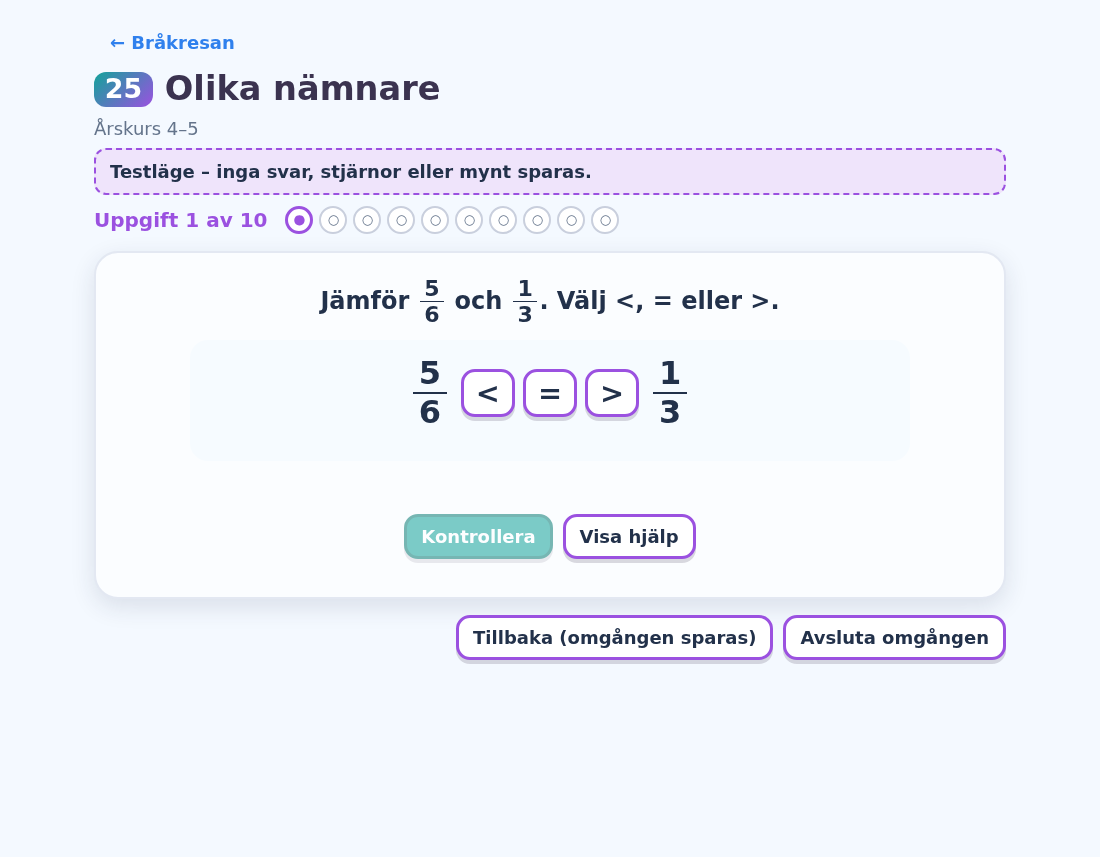
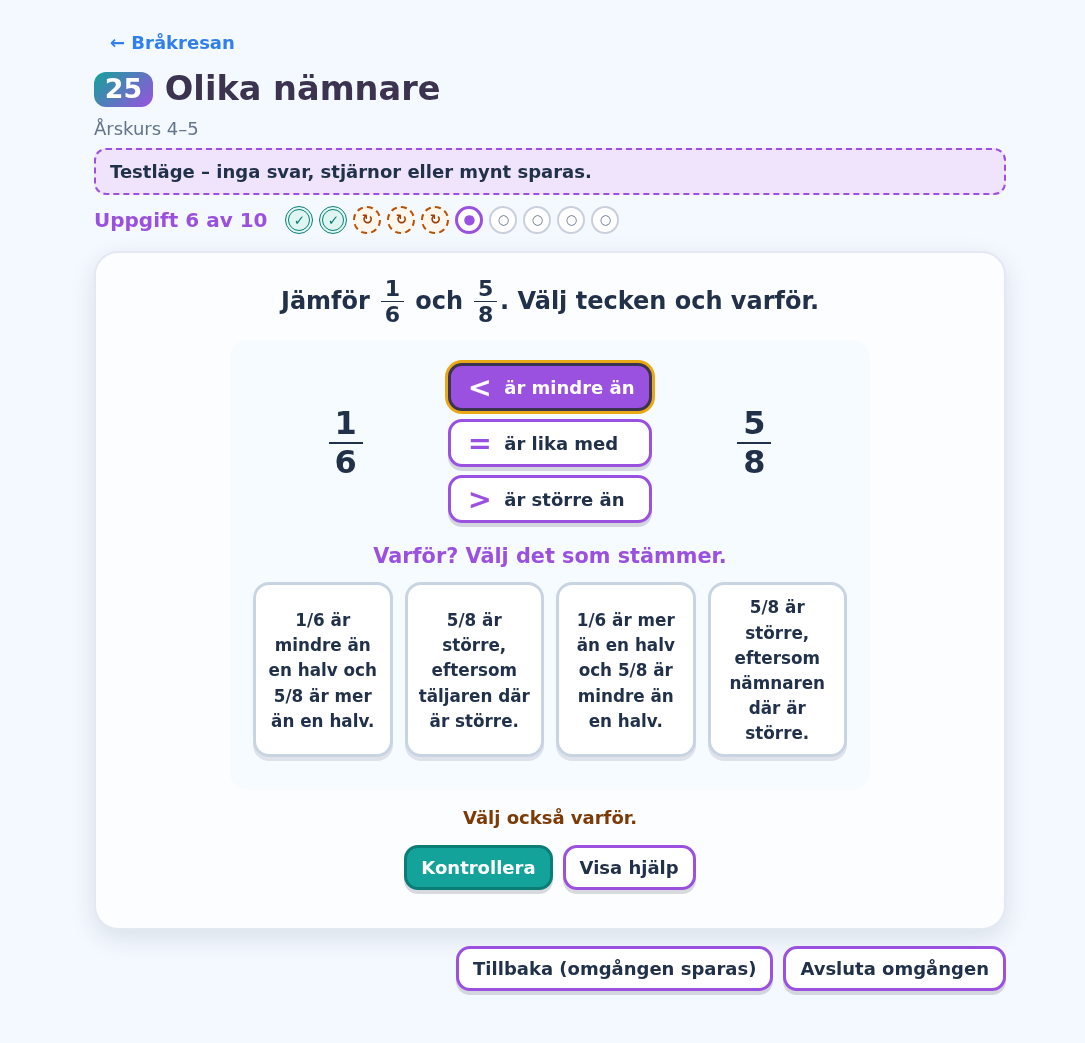
issue #711: 25 på E:s sammansatt (relationsval + förklaringskort), stavarna i hjälpen; ingen längdledtråd i 25/33 (granskas)

diff --git a/functions/brakresan/utmaningar/u25.js b/functions/brakresan/utmaningar/u25.js
@@ -9,9 +9,10 @@
 //     andra, allmän omdelning, likvärdiga (2/6 = 3/9 – lika med)
 //   • felresonemangen fångar "störst nämnare", "störst täljare", additiv
 //     omskrivning och "det går inte att jämföra olika stora delar"
-// Bilden (två lika långa stavar med verktyget "Dela varje bit i k") syns bara
-// medan hjälpen är öppen (view.stavar[].iHjalp): lika långa stavar avslöjar
-// annars svaret direkt (Elias, #709). Ingen korsmultiplikation som förklaring.
+// Vyn är E:s sammansatt (#710): relationsval (tecken + ord) och förklaringskort.
+// Bilden (två lika långa stavar) visas i hjälpen – lika långa stavar avslöjar
+// annars svaret direkt (Elias, #709) – och omdelningen visas där med andra tal.
+// Ingen korsmultiplikation som förklaring.
 // ============================================================================
 
 import { defineChallenge } from "../schema/kontrakt.js";
@@ -56,24 +57,24 @@ function resonemang({ a, n, b, m, sort }) {
   const x = (a * L) / n;
   const y = (b * L) / m;
   const rel = relation(q(a, n), q(b, m));
-  const ratt = sort === "halv"
-    ? `${a}/${n} är ${rel === "<" ? "mindre" : "mer"} än en halv och ${b}/${m} är ${rel === "<" ? "mer" : "mindre"} än en halv.`
-    : sort === "likvardig"
-      ? `Med lika stora bitar blir båda lika: ${a}/${n} = ${x}/${L} och ${b}/${m} = ${y}/${L}.`
-      : `Med lika stora bitar: ${a}/${n} = ${x}/${L} och ${b}/${m} = ${y}/${L}.`;
+  const halv = (r) => `${a}/${n} är ${r === "<" ? "mindre" : "mer"} än en halv och ${b}/${m} är ${r === "<" ? "mer" : "mindre"} än en halv.`;
+  const lika = (xx, yy) => `Med lika stora bitar: ${a}/${n} = ${xx}/${L} och ${b}/${m} = ${yy}/${L}.`;
+  const ratt = sort === "halv" ? halv(rel) : lika(x, y);
   const storstNamnare = n > m ? `${a}/${n}` : `${b}/${m}`;
   const storstTaljare = a > b ? `${a}/${n}` : `${b}/${m}`;
+  // Felresonemangen är byggda som det rätta (samma längd ungefär) – ingen längdledtråd (granskas i u25.mjs).
   const fel = [
-    { id: "namnare", text: `${storstNamnare} är störst, eftersom nämnaren är störst.`, tag: "storst-namnare" },
-    a !== b
-      ? { id: "taljare", text: `${storstTaljare} är störst, eftersom täljaren är störst.`, tag: "storst-taljare" }
-      : { id: "taljare", text: "De är lika stora, eftersom täljarna är lika.", tag: "storst-taljare" },
+    { id: "halvfel", text: halv(rel === "<" ? ">" : "<"), tag: "fel-mot-halv" },
     // Additiv omskrivning till samma nämnare: lägger till samma tal uppe och nere.
-    { id: "additiv", text: `Med samma nämnare: ${a}/${n} = ${a + L - n}/${L} och ${b}/${m} = ${b + L - m}/${L}.`, tag: "additiv-omskrivning" },
-    { id: "olika", text: "Det går inte att jämföra, eftersom bitarna är olika stora.", tag: "olika-helheter" },
+    { id: "additiv", text: lika(a + L - n, b + L - m), tag: "additiv-omskrivning" },
+    { id: "namnare", text: `${storstNamnare} är större, eftersom nämnaren där är större.`, tag: "storst-namnare" },
+    a !== b
+      ? { id: "taljare", text: `${storstTaljare} är större, eftersom täljaren där är större.`, tag: "storst-taljare" }
+      : { id: "taljare", text: "De är lika mycket, eftersom täljarna är lika stora.", tag: "storst-taljare" },
+    { id: "olika", text: "Bitarna är olika stora, så bråken går inte att jämföra.", tag: "olika-helheter" },
   ];
-  // Lika bråk: "går inte att jämföra" är den vanliga missen; annars additiv omskrivning.
-  const prio = sort === "likvardig" ? ["namnare", "taljare", "olika", "additiv"] : ["namnare", "taljare", "additiv", "olika"];
+  const prio = sort === "halv" ? ["halvfel", "namnare", "taljare", "additiv"]
+    : sort === "likvardig" ? ["additiv", "olika", "namnare", "taljare"] : ["additiv", "namnare", "taljare", "olika"];
   const valda = prio.map((id) => fel.find((f) => f.id === id)).filter((f) => f.text !== ratt);
   return { ratt: { id: "ratt", text: ratt }, fel: valda.slice(0, 3) };
 }
@@ -124,15 +125,16 @@ export default defineChallenge({
     const relSpec = { type: "relation" };
     const relKey = { type: "relation", correct: rel };
     const andra = ["<", "=", ">"].filter((r) => r !== rel);
+    // E:s sammansatt (#710): jämförelsen med tecken och ord, och i -r-uppgifter förklaringskorten.
     const view = {
-      component: "verkstad",
-      stavar: [
-        { id: "s1", parts: n, marked: a, namn: brak(a, n), helhet: "Hela staven = 1", verktyg: ["dela"], maxDela: Math.floor(MAX_L / n), iHjalp: true },
-        { id: "s2", parts: m, marked: b, namn: brak(b, m), helhet: "Hela staven = 1", verktyg: ["dela"], maxDela: Math.floor(MAX_L / m), iHjalp: true },
+      component: "sammansatt",
+      delar: [
+        { view: { component: "relationsval", vanster: brak(a, n), hoger: brak(b, m) }, svar: options ? "rel" : true, label: "Välj jämförelse" },
+        ...(options ? [{ view: { component: "kort", lista: true, cards: options.map(({ id, text }) => ({ id, face: { text } })) }, svar: "varfor", rubrik: "Varför? Välj det som stämmer." }] : []),
       ],
-      expr: [brak(a, n), { relation: "rel" }, brak(b, m)],
-      ...(options ? { fragor: [{ id: "varfor", text: "Varför? Välj det som stämmer.", options: options.map(({ id, text }) => ({ id, text })) }] } : {}),
     };
+    // Stavarna (lika långa, samma helhet) visas bara i hjälpen – de avslöjar annars svaret direkt.
+    const stavar = { component: "stav", bars: [{ parts: n, marked: a, label: `${a}/${n}` }, { parts: m, marked: b, label: `${b}/${m}` }], label: "Hela staven = 1" };
     const answer = options
       ? { type: "multi", parts: { rel: relSpec, varfor: { type: "choice", options: options.map((o) => o.id) } } }
       : relSpec;
@@ -167,16 +169,15 @@ export default defineChallenge({
         examples,
       },
       help: [
-        { step: "orientering", text: "Båda stavarna är lika långa: hela staven = 1. Bitarna är olika stora, så antalet bitar säger inte allt.", highlight: { whole: true, stavar: true } },
-        { step: "princip", text: "Kan vi beskriva båda med lika stora bitar? Dela varje bit i lika många nya bitar – då ändras inte hur mycket som är färgat. Du kan också jämföra med en halv.", highlight: { stavar: true } },
+        { step: "orientering", text: "Båda stavarna är lika långa: hela staven = 1. Bitarna är olika stora, så antalet bitar säger inte allt.", view: stavar },
+        { step: "princip", text: "Kan vi beskriva båda med lika stora bitar? Dela varje bit i lika många nya bitar – då ändras inte hur mycket som är färgat. Du kan också jämföra med en halv." },
         {
           step: "modellering",
           text: `Ett exempel med andra tal: ${ex.a}/${ex.n} och ${ex.b}/${ex.m}. Med ${exL}-delar blir det ${(ex.a * exL) / ex.n}/${exL} och ${(ex.b * exL) / ex.m}/${exL}. ` +
             "Nu är bitarna lika stora, och det går att räkna vilket som har flest.",
           view: { component: "stav", bars: [{ parts: exL, marked: (ex.a * exL) / ex.n }, { parts: exL, marked: (ex.b * exL) / ex.m }] },
-          highlight: { stavar: true },
         },
-        { step: "atergang", text: "Nu provar du själv: dela stavarna tills bitarna är lika stora, och jämför.", highlight: { stavar: true } },
+        { step: "atergang", text: "Nu provar du själv: tänk dig stavarna delade tills bitarna är lika stora, och jämför." },
       ],
       misconceptions: ["storst-namnare", "storst-taljare", "additiv-omskrivning", "olika-helheter"],
       feedback: {
@@ -198,8 +199,8 @@ export default defineChallenge({
     { slot: "likvardig", params: { a: 2, n: 4, b: 3, m: 6, sort: "likvardig" } },
     { slot: "omdelning", params: { a: 2, n: 3, b: 3, m: 5, sort: "omdelning" } },
     { slot: "omdelning", params: { a: 3, n: 4, b: 5, m: 6, sort: "omdelning" } },
-    { slot: "halv-r", params: { a: 2, n: 5, b: 4, m: 6, sort: "halv", ordning: ["namnare", "ratt", "additiv", "taljare"] } },
+    { slot: "halv-r", params: { a: 2, n: 5, b: 4, m: 6, sort: "halv", ordning: ["namnare", "ratt", "halvfel", "taljare"] } },
     { slot: "omdelning-r", params: { a: 3, n: 4, b: 2, m: 3, sort: "omdelning", ordning: ["taljare", "additiv", "namnare", "ratt"] } },
-    { slot: "likvardig-r", params: { a: 4, n: 6, b: 6, m: 9, sort: "likvardig", ordning: ["ratt", "olika", "taljare", "namnare"] } },
+    { slot: "likvardig-r", params: { a: 4, n: 6, b: 6, m: 9, sort: "likvardig", ordning: ["ratt", "olika", "additiv", "namnare"] } },
   ],
 });

diff --git a/src/brakresan/utmaningar/u25.js b/src/brakresan/utmaningar/u25.js
@@ -9,9 +9,10 @@
 //     andra, allmän omdelning, likvärdiga (2/6 = 3/9 – lika med)
 //   • felresonemangen fångar "störst nämnare", "störst täljare", additiv
 //     omskrivning och "det går inte att jämföra olika stora delar"
-// Bilden (två lika långa stavar med verktyget "Dela varje bit i k") syns bara
-// medan hjälpen är öppen (view.stavar[].iHjalp): lika långa stavar avslöjar
-// annars svaret direkt (Elias, #709). Ingen korsmultiplikation som förklaring.
+// Vyn är E:s sammansatt (#710): relationsval (tecken + ord) och förklaringskort.
+// Bilden (två lika långa stavar) visas i hjälpen – lika långa stavar avslöjar
+// annars svaret direkt (Elias, #709) – och omdelningen visas där med andra tal.
+// Ingen korsmultiplikation som förklaring.
 // ============================================================================
 
 import { defineChallenge } from "../schema/kontrakt.js";
@@ -56,24 +57,24 @@ function resonemang({ a, n, b, m, sort }) {
   const x = (a * L) / n;
   const y = (b * L) / m;
   const rel = relation(q(a, n), q(b, m));
-  const ratt = sort === "halv"
-    ? `${a}/${n} är ${rel === "<" ? "mindre" : "mer"} än en halv och ${b}/${m} är ${rel === "<" ? "mer" : "mindre"} än en halv.`
-    : sort === "likvardig"
-      ? `Med lika stora bitar blir båda lika: ${a}/${n} = ${x}/${L} och ${b}/${m} = ${y}/${L}.`
-      : `Med lika stora bitar: ${a}/${n} = ${x}/${L} och ${b}/${m} = ${y}/${L}.`;
+  const halv = (r) => `${a}/${n} är ${r === "<" ? "mindre" : "mer"} än en halv och ${b}/${m} är ${r === "<" ? "mer" : "mindre"} än en halv.`;
+  const lika = (xx, yy) => `Med lika stora bitar: ${a}/${n} = ${xx}/${L} och ${b}/${m} = ${yy}/${L}.`;
+  const ratt = sort === "halv" ? halv(rel) : lika(x, y);
   const storstNamnare = n > m ? `${a}/${n}` : `${b}/${m}`;
   const storstTaljare = a > b ? `${a}/${n}` : `${b}/${m}`;
+  // Felresonemangen är byggda som det rätta (samma längd ungefär) – ingen längdledtråd (granskas i u25.mjs).
   const fel = [
-    { id: "namnare", text: `${storstNamnare} är störst, eftersom nämnaren är störst.`, tag: "storst-namnare" },
-    a !== b
-      ? { id: "taljare", text: `${storstTaljare} är störst, eftersom täljaren är störst.`, tag: "storst-taljare" }
-      : { id: "taljare", text: "De är lika stora, eftersom täljarna är lika.", tag: "storst-taljare" },
+    { id: "halvfel", text: halv(rel === "<" ? ">" : "<"), tag: "fel-mot-halv" },
     // Additiv omskrivning till samma nämnare: lägger till samma tal uppe och nere.
-    { id: "additiv", text: `Med samma nämnare: ${a}/${n} = ${a + L - n}/${L} och ${b}/${m} = ${b + L - m}/${L}.`, tag: "additiv-omskrivning" },
-    { id: "olika", text: "Det går inte att jämföra, eftersom bitarna är olika stora.", tag: "olika-helheter" },
+    { id: "additiv", text: lika(a + L - n, b + L - m), tag: "additiv-omskrivning" },
+    { id: "namnare", text: `${storstNamnare} är större, eftersom nämnaren där är större.`, tag: "storst-namnare" },
+    a !== b
+      ? { id: "taljare", text: `${storstTaljare} är större, eftersom täljaren där är större.`, tag: "storst-taljare" }
+      : { id: "taljare", text: "De är lika mycket, eftersom täljarna är lika stora.", tag: "storst-taljare" },
+    { id: "olika", text: "Bitarna är olika stora, så bråken går inte att jämföra.", tag: "olika-helheter" },
   ];
-  // Lika bråk: "går inte att jämföra" är den vanliga missen; annars additiv omskrivning.
-  const prio = sort === "likvardig" ? ["namnare", "taljare", "olika", "additiv"] : ["namnare", "taljare", "additiv", "olika"];
+  const prio = sort === "halv" ? ["halvfel", "namnare", "taljare", "additiv"]
+    : sort === "likvardig" ? ["additiv", "olika", "namnare", "taljare"] : ["additiv", "namnare", "taljare", "olika"];
   const valda = prio.map((id) => fel.find((f) => f.id === id)).filter((f) => f.text !== ratt);
   return { ratt: { id: "ratt", text: ratt }, fel: valda.slice(0, 3) };
 }
@@ -124,15 +125,16 @@ export default defineChallenge({
     const relSpec = { type: "relation" };
     const relKey = { type: "relation", correct: rel };
     const andra = ["<", "=", ">"].filter((r) => r !== rel);
+    // E:s sammansatt (#710): jämförelsen med tecken och ord, och i -r-uppgifter förklaringskorten.
     const view = {
-      component: "verkstad",
-      stavar: [
-        { id: "s1", parts: n, marked: a, namn: brak(a, n), helhet: "Hela staven = 1", verktyg: ["dela"], maxDela: Math.floor(MAX_L / n), iHjalp: true },
-        { id: "s2", parts: m, marked: b, namn: brak(b, m), helhet: "Hela staven = 1", verktyg: ["dela"], maxDela: Math.floor(MAX_L / m), iHjalp: true },
+      component: "sammansatt",
+      delar: [
+        { view: { component: "relationsval", vanster: brak(a, n), hoger: brak(b, m) }, svar: options ? "rel" : true, label: "Välj jämförelse" },
+        ...(options ? [{ view: { component: "kort", lista: true, cards: options.map(({ id, text }) => ({ id, face: { text } })) }, svar: "varfor", rubrik: "Varför? Välj det som stämmer." }] : []),
       ],
-      expr: [brak(a, n), { relation: "rel" }, brak(b, m)],
-      ...(options ? { fragor: [{ id: "varfor", text: "Varför? Välj det som stämmer.", options: options.map(({ id, text }) => ({ id, text })) }] } : {}),
     };
+    // Stavarna (lika långa, samma helhet) visas bara i hjälpen – de avslöjar annars svaret direkt.
+    const stavar = { component: "stav", bars: [{ parts: n, marked: a, label: `${a}/${n}` }, { parts: m, marked: b, label: `${b}/${m}` }], label: "Hela staven = 1" };
     const answer = options
       ? { type: "multi", parts: { rel: relSpec, varfor: { type: "choice", options: options.map((o) => o.id) } } }
       : relSpec;
@@ -167,16 +169,15 @@ export default defineChallenge({
         examples,
       },
       help: [
-        { step: "orientering", text: "Båda stavarna är lika långa: hela staven = 1. Bitarna är olika stora, så antalet bitar säger inte allt.", highlight: { whole: true, stavar: true } },
-        { step: "princip", text: "Kan vi beskriva båda med lika stora bitar? Dela varje bit i lika många nya bitar – då ändras inte hur mycket som är färgat. Du kan också jämföra med en halv.", highlight: { stavar: true } },
+        { step: "orientering", text: "Båda stavarna är lika långa: hela staven = 1. Bitarna är olika stora, så antalet bitar säger inte allt.", view: stavar },
+        { step: "princip", text: "Kan vi beskriva båda med lika stora bitar? Dela varje bit i lika många nya bitar – då ändras inte hur mycket som är färgat. Du kan också jämföra med en halv." },
         {
           step: "modellering",
           text: `Ett exempel med andra tal: ${ex.a}/${ex.n} och ${ex.b}/${ex.m}. Med ${exL}-delar blir det ${(ex.a * exL) / ex.n}/${exL} och ${(ex.b * exL) / ex.m}/${exL}. ` +
             "Nu är bitarna lika stora, och det går att räkna vilket som har flest.",
           view: { component: "stav", bars: [{ parts: exL, marked: (ex.a * exL) / ex.n }, { parts: exL, marked: (ex.b * exL) / ex.m }] },
-          highlight: { stavar: true },
         },
-        { step: "atergang", text: "Nu provar du själv: dela stavarna tills bitarna är lika stora, och jämför.", highlight: { stavar: true } },
+        { step: "atergang", text: "Nu provar du själv: tänk dig stavarna delade tills bitarna är lika stora, och jämför." },
       ],
       misconceptions: ["storst-namnare", "storst-taljare", "additiv-omskrivning", "olika-helheter"],
       feedback: {
@@ -198,8 +199,8 @@ export default defineChallenge({
     { slot: "likvardig", params: { a: 2, n: 4, b: 3, m: 6, sort: "likvardig" } },
     { slot: "omdelning", params: { a: 2, n: 3, b: 3, m: 5, sort: "omdelning" } },
     { slot: "omdelning", params: { a: 3, n: 4, b: 5, m: 6, sort: "omdelning" } },
-    { slot: "halv-r", params: { a: 2, n: 5, b: 4, m: 6, sort: "halv", ordning: ["namnare", "ratt", "additiv", "taljare"] } },
+    { slot: "halv-r", params: { a: 2, n: 5, b: 4, m: 6, sort: "halv", ordning: ["namnare", "ratt", "halvfel", "taljare"] } },
     { slot: "omdelning-r", params: { a: 3, n: 4, b: 2, m: 3, sort: "omdelning", ordning: ["taljare", "additiv", "namnare", "ratt"] } },
-    { slot: "likvardig-r", params: { a: 4, n: 6, b: 6, m: 9, sort: "likvardig", ordning: ["ratt", "olika", "taljare", "namnare"] } },
+    { slot: "likvardig-r", params: { a: 4, n: 6, b: 6, m: 9, sort: "likvardig", ordning: ["ratt", "olika", "additiv", "namnare"] } },
   ],
 });

diff --git a/test/brakresan-utmaningar-f.test.js b/test/brakresan-utmaningar-f.test.js
@@ -77,13 +77,15 @@ test("25: 2/3 > 3/5 (10/15 > 9/15); med resonemang krävs båda delarna", async 
   assert.equal((await g("25", { a: 2, n: 3, b: 3, m: 5, sort: "omdelning" }, { value: "<" })).r.correct, false);
   const params = { a: 2, n: 3, b: 3, m: 5, sort: "omdelning", ordning: ["namnare", "ratt", "additiv", "taljare"] };
   const { t, ch } = await g("25", params, null);
-  assert.equal(t.view.fragor[0].options[1].text, "Med lika stora bitar: 2/3 = 10/15 och 3/5 = 9/15.");
+  assert.equal(t.view.component, "sammansatt");
+  assert.equal(t.view.delar[1].view.cards[1].face.text, "Med lika stora bitar: 2/3 = 10/15 och 3/5 = 9/15.");
   assert.equal(gradeTask(ch, t, { parts: { rel: { value: ">" }, varfor: { id: "r2" } } }).correct, true);
   const felSkal = gradeTask(ch, t, { parts: { rel: { value: ">" }, varfor: { id: "r1" } } });
   assert.equal(felSkal.correct, false);
   assert.equal(felSkal.reason, "fel-resonemang");
   assert.equal(gradeTask(ch, t, { parts: { rel: { value: ">" } } }).status, "invalid");
-  assert.ok(t.view.stavar.every((s) => s.iHjalp), "stavarna bara i hjälpen");
+  assert.ok(t.view.delar.every((d) => d.view.component !== "stav"), "stavarna bara i hjälpen");
+  assert.equal(t.help[0].view.component, "stav");
 });
 
 test("26: 1/4 < 1/3 < 1/2 < 3/4 – bara hela ordningen ger poäng", async () => {

diff --git a/src/brakresan/omgang-uppgift.js b/src/brakresan/omgang-uppgift.js
@@ -7,7 +7,7 @@
 //   • "omdelning" (34, och fler flerstegsuppgifter med stavar + uttryck):
 //     stavar med verktyget "Dela varje bit i k" och en uttrycksrad med flera
 //     bråkfält – svaret är multi { parts: { id: { fields } } }
-//   • "verkstad" (F #711: 21, 22, 25, 28–33, 35): omgang-verkstad.js, lat
+//   • "verkstad" (F #711: 21, 22, 28–33, 35): omgang-verkstad.js, lat
 //   • kort med bråk (12) och sorteringskort (26): en jämförelsestav under varje kort syns bara medan
 //     hjälpen visar ett steg med highlight { stavar: true } – aldrig från
 //     början och utan facitetikett
